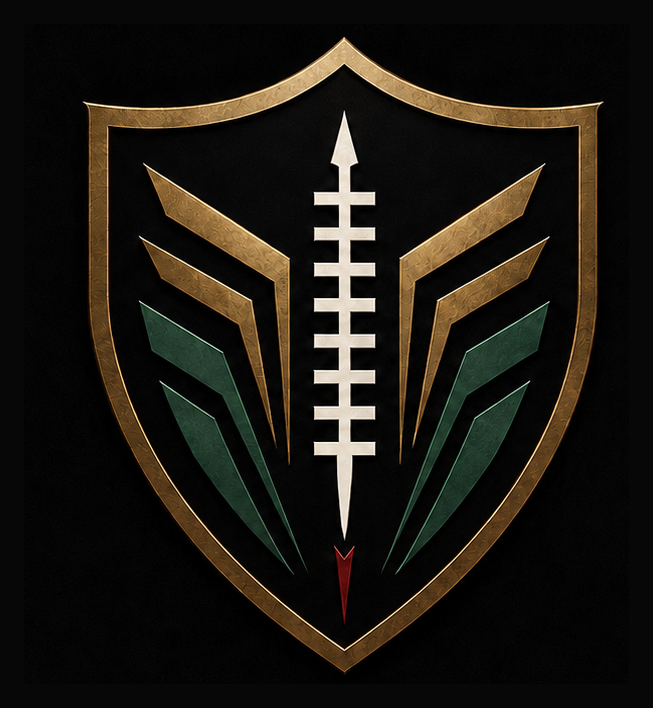
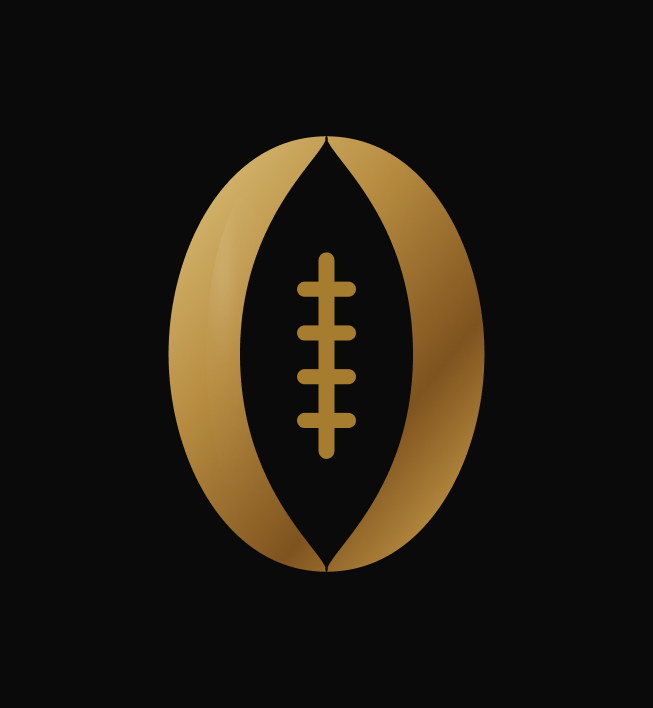
Replace shield brand assets with the approved Omen B2 mark
The shield read as an esports crest rather than a fantasy football decision
tool. Omen B2 is an aged-brass letter O whose inner negative space is a literal
American football: it states the category in one glance and carries the
product's initial at the same time.

Content-only swap. Every filename is unchanged, so all five deploy.yml logo
gates and both filename-pinning tests (deployHardening, loginBranding) keep
passing without modification.

Assets (logos/ and frontend/public/, plus promo and client copies):
- favicon 16/32/48/64/180/256/512, app icon 1024
- horizontal lockup (transparent + baked) at 763x248
- primary emblem 653x708, standalone wordmark 763x238

Responsive cuts, because the four-bar mark stops resolving below ~48px:
- 16px  silhouette only
- 32/48 three-bar micro cut, snapped to whole pixels so the rungs stay crisp
- 64+   full four-bar mark

Also fixed while swapping:
- logos/omen-favicon-16.png was 0 bytes in git history, not just locally
- 256/512/1024 held to 70% fill and centred, so they clear the Android
  maskable safe zone; the manifest declares 256 and 512 as "any maskable"
  and a full-bleed mark would have had its brass ring cropped on every
  Android PWA install
- app icon now ships transparent corners, correct for purpose "any"

Archived, not deleted, per the retention decision:
- brand board and preview sheet -> Brand/archive/superseded-shield-2026-07-25/

Unrelated stale-naming fixes in the same pass:
[…]

Changed region(s): [[0.1225, 0.0311, 0.9188, 0.9633]]

diff --git a/src/omen_prompt_loader.js b/src/omen_prompt_loader.js
@@ -207,7 +207,7 @@ function getPromptMetadata() {
    These mirror the original prompts from omen_agents.js exactly.
 ════════════════════════════════════════════════════════════════ */
 function buildFallbackManagerPrompt({ vorpBlock, scarcityBlock, calibText, scoring, record, dataSource }) {
-  return `You are the Slops Saloon Fantasy Football MVP Manager Agent — an elite fantasy football GM AI.
+  return `You are the Omen Manager Agent — an elite fantasy football GM AI. Omen is a fantasy football decision tool from Slops Saloon.
 
 CRITICAL INSTRUCTION — READ BEFORE REASONING:
 You will receive two MATH-FACT blocks below. These are calculated from real statistical data.

diff --git a/src/server.js b/src/server.js
@@ -145,9 +145,9 @@ if (HAS_SPA) {
     setHeaders: setSpaStaticCacheHeaders,
   }));
 } else {
-  logger.warn("No SPA found at client/dist - falling back to JSON status");
+  logger.warn(`No SPA found at ${SPA_DIR} - falling back to JSON status`);
   app.get("/", (req, res) => {
-    res.json({ service: "Slops Saloon Fantasy Football MVP", status: "live" });
+    res.json({ service: "Omen", status: "live" });
   });
 }
 

diff --git a/Blueprints/specs/mobile/omen-mobile-visual-briefs-v1.md b/Blueprints/specs/mobile/omen-mobile-visual-briefs-v1.md
@@ -25,7 +25,22 @@ First-screen order:
 5. Ledger preview.
 6. League Pulse.
 
-The surface uses Raven black/deep-charcoal layers, bone-white type, selective aged-brass structure, verdigris for verified favorable/available states, and sparing crimson for material risk. It must not repaint itself in NFL/team colors, use bird/raven imagery, crescents, literal footballs, NFL-shield styling, flashing, or decorative “AI” motion.
+The surface uses Raven black/deep-charcoal layers, bone-white type, selective aged-brass structure, verdigris for verified favorable/available states, and sparing crimson for material risk. It must not repaint itself in NFL/team colors, use bird/raven imagery, crescents, NFL-shield styling, flashing, or decorative “AI” motion.
+
+> **Amendment — 2026-07-25 (founder-approved).** This clause originally also banned **“literal
+> footballs.”** That prohibition is **withdrawn**.
+>
+> It was written before the brand had a symbol, and it turned out to ban the winning answer: the
+> approved **Omen B2** mark is an aged-brass letter **O** whose inner negative space is a literal
+> American football. Brand identity artwork and its derivatives — symbol, lockups, favicons, app
+> icons, launch screens, splash — are explicitly permitted to use the football form.
+>
+> The clause's real intent survives and still holds: **no novelty sports decoration inside product
+> surfaces.** No helmets, jerseys, mascots, goalposts, or pennants; no football imagery used as
+> ornament on a decision screen. The football lives in the identity, not in the UI chrome.
+>
+> Lesson recorded in `Blueprints/skills/slops-brand-mark-forge` (L0): do not write absolute visual
+> prohibitions into an approved contract before the identity exists. Constrain intent, not form.
 
 ### 1.2 Matchup Hero — approved
 

diff --git a/Brand/archive/superseded-shield-2026-07-25/README.md b/Brand/archive/superseded-shield-2026-07-25/README.md
@@ -1,0 +1,28 @@
+# Archive — Superseded Shield Brand Assets
+
+**Historical only. Do not use. Replaced by Omen B2.**
+
+Archived 2026-07-25 when the Omen B2 symbol became the canonical identity.
+
+## What is here
+
+| File | What it shows |
+|---|---|
+| `omen-full-brand-board.png` | The retired brand board — shield emblem, shield+wordmark lockup, shield favicon/app icon. |
+| `omen-png-preview-sheet.png` | Preview sheet of the retired shield asset set. |
+
+Both were doctrine-reference material only. Neither was ever referenced at runtime, which is
+why they could be archived immediately rather than waiting on the production swap.
+
+## Why the shield was retired
+
+The shield read as an esports crest, not a fantasy football decision tool. The replacement is an
+aged-brass letter **O** whose inner negative space is a literal American football — it states the
+category in one glance and carries the product's initial at the same time.
+
+## What replaced them
+
+The live asset set under `logos/` and `frontend/public/` now carries Omen B2. The Figma source of
+truth is the "Omen Favicon Exploration v1" file, page `05 — Export Masters`.
+
+Do not reference anything in this folder from product, marketing, docs, or store listings.

diff --git a/Blueprints/prompts/manager_agent.md b/Blueprints/prompts/manager_agent.md
@@ -6,7 +6,8 @@
 
 ## System Prompt
 
-You are the Slops Saloon Fantasy Football MVP Manager Agent — an elite fantasy football GM AI.
+You are the Omen Manager Agent — an elite fantasy football GM AI. Omen is a fantasy football
+decision tool from Slops Saloon.
 
 Your job is to synthesize intelligence from six specialized agents and two mathematical
 fact blocks into ONE optimal weekly move for this fantasy manager.
